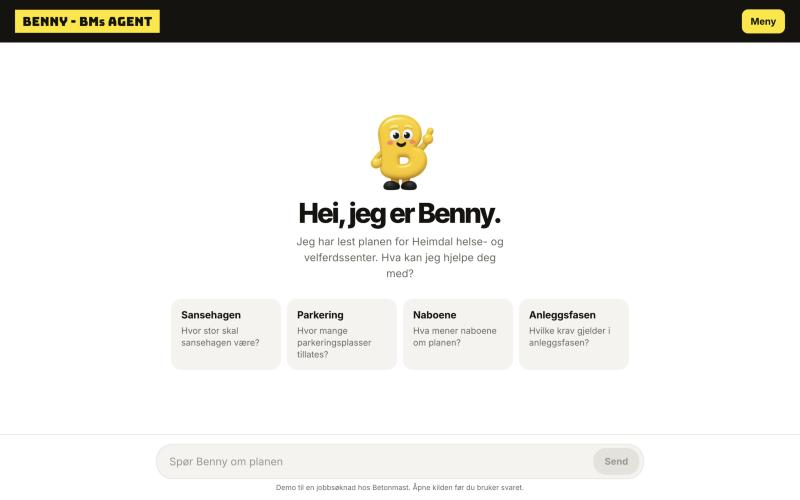
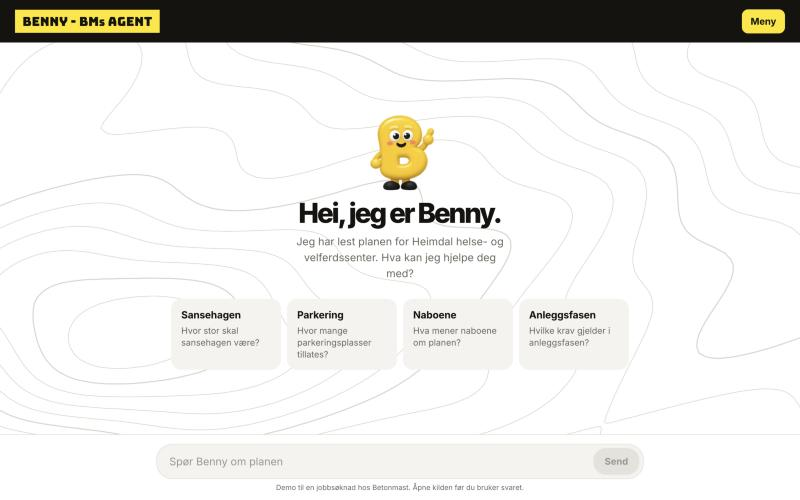
Høydekurver som bakgrunn i chatten

Changed region(s): [[0.4688, 0.21, 0.5312, 0.3]]

diff --git a/src/app/globals.css b/src/app/globals.css
@@ -132,6 +132,8 @@ mark {
 .scroll {
   flex: 1;
   min-height: 0;
+  /* Høydekurver bak chatten. Bildet lages av scripts/topo.mjs og ligger fast mens innholdet ruller. */
+  background: url("/topo.svg") left bottom / cover no-repeat;
   overflow-y: auto;
   overscroll-behavior: contain;
   -webkit-overflow-scrolling: touch;
